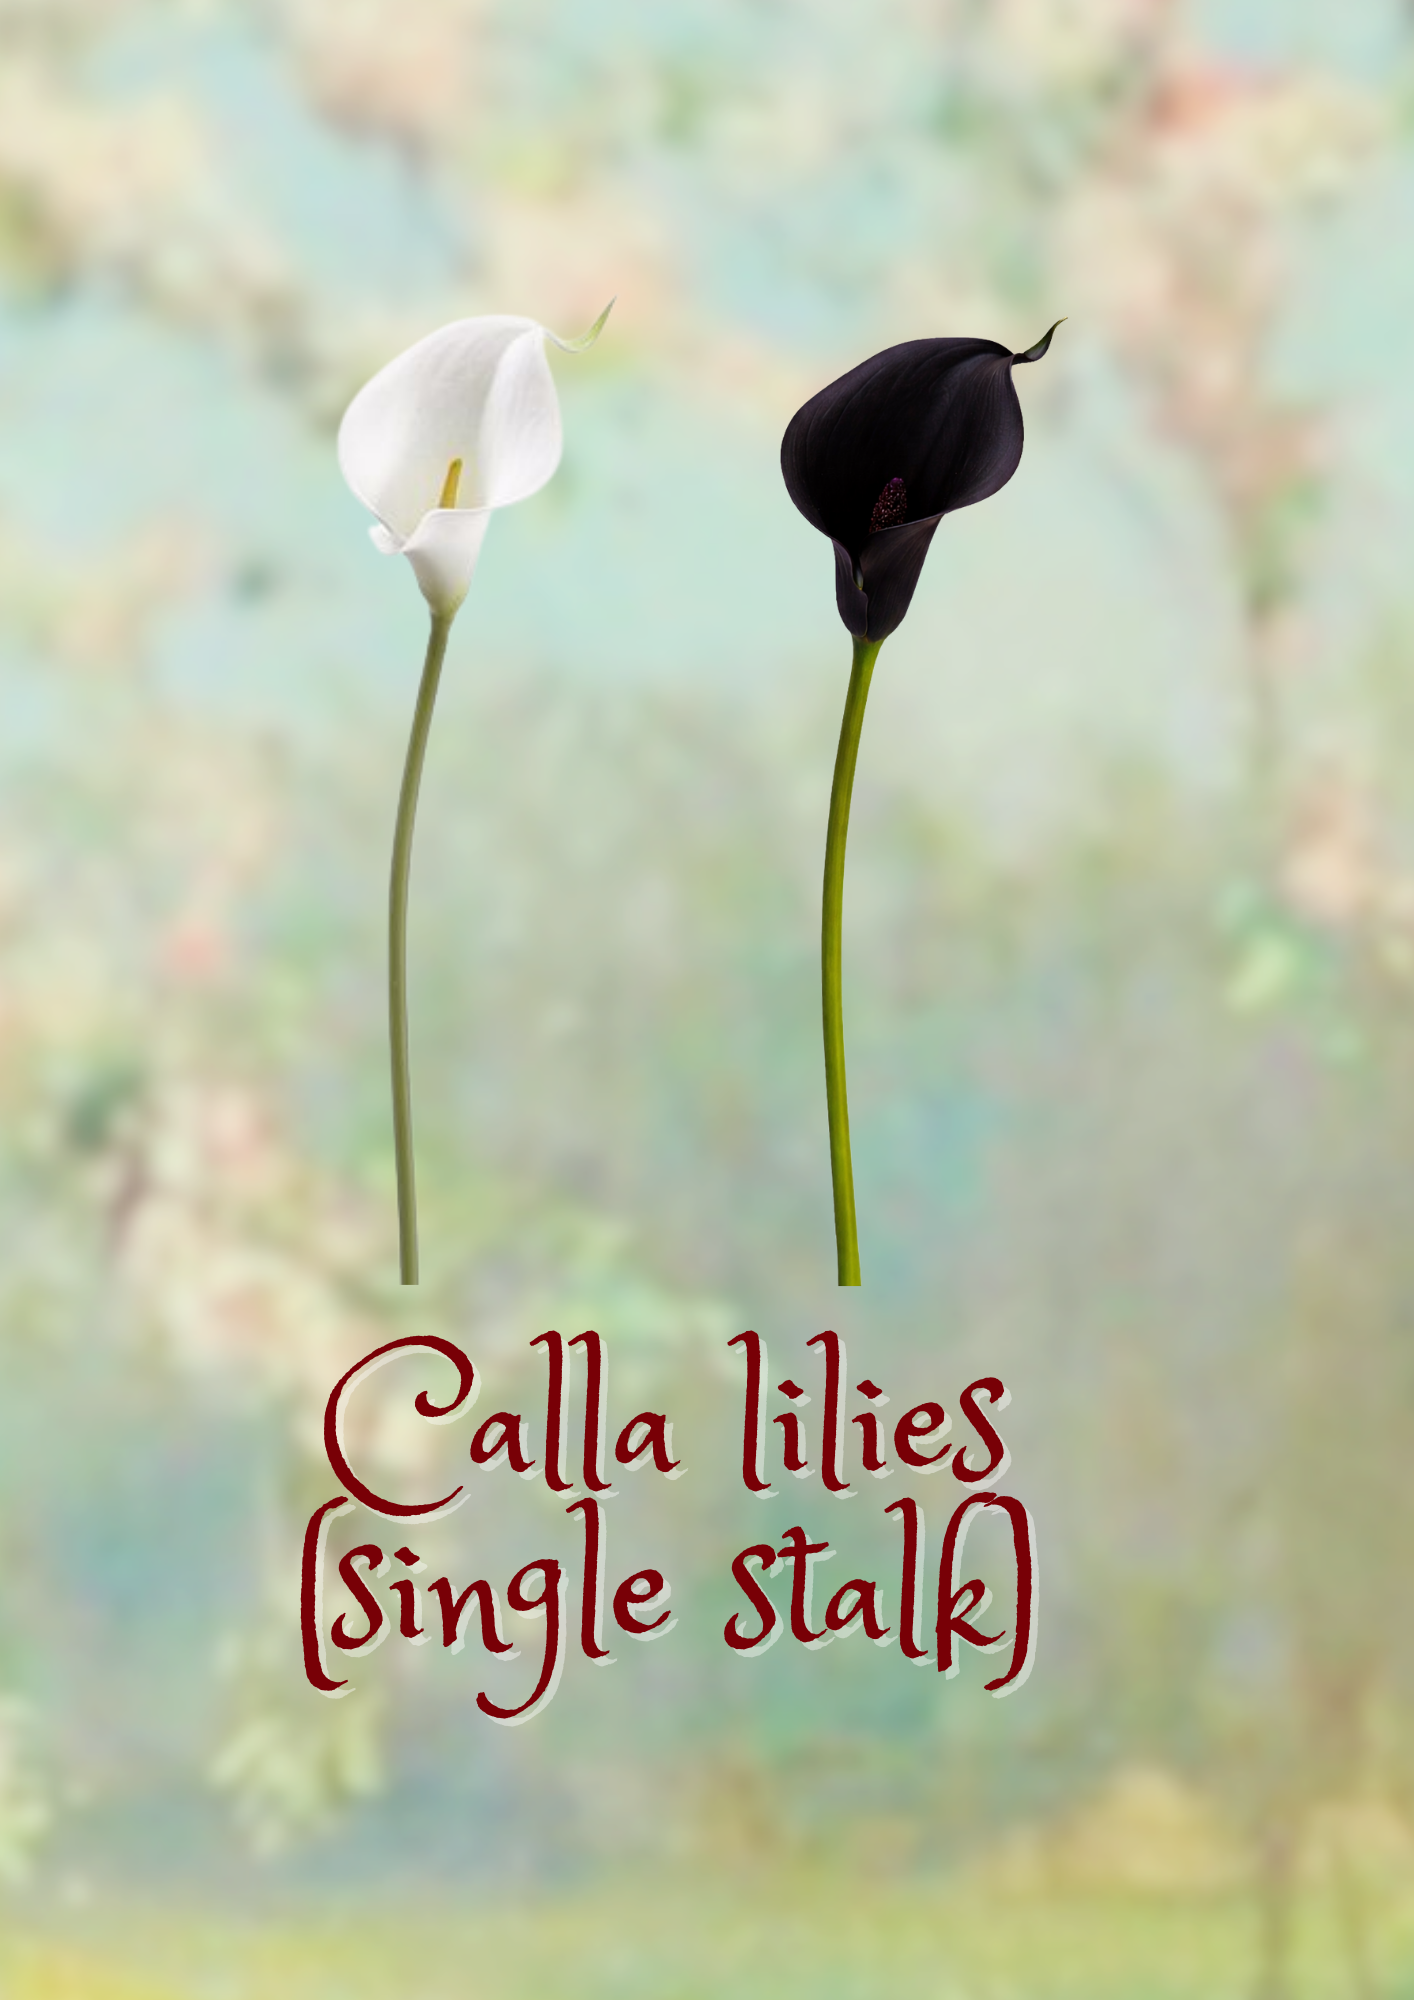
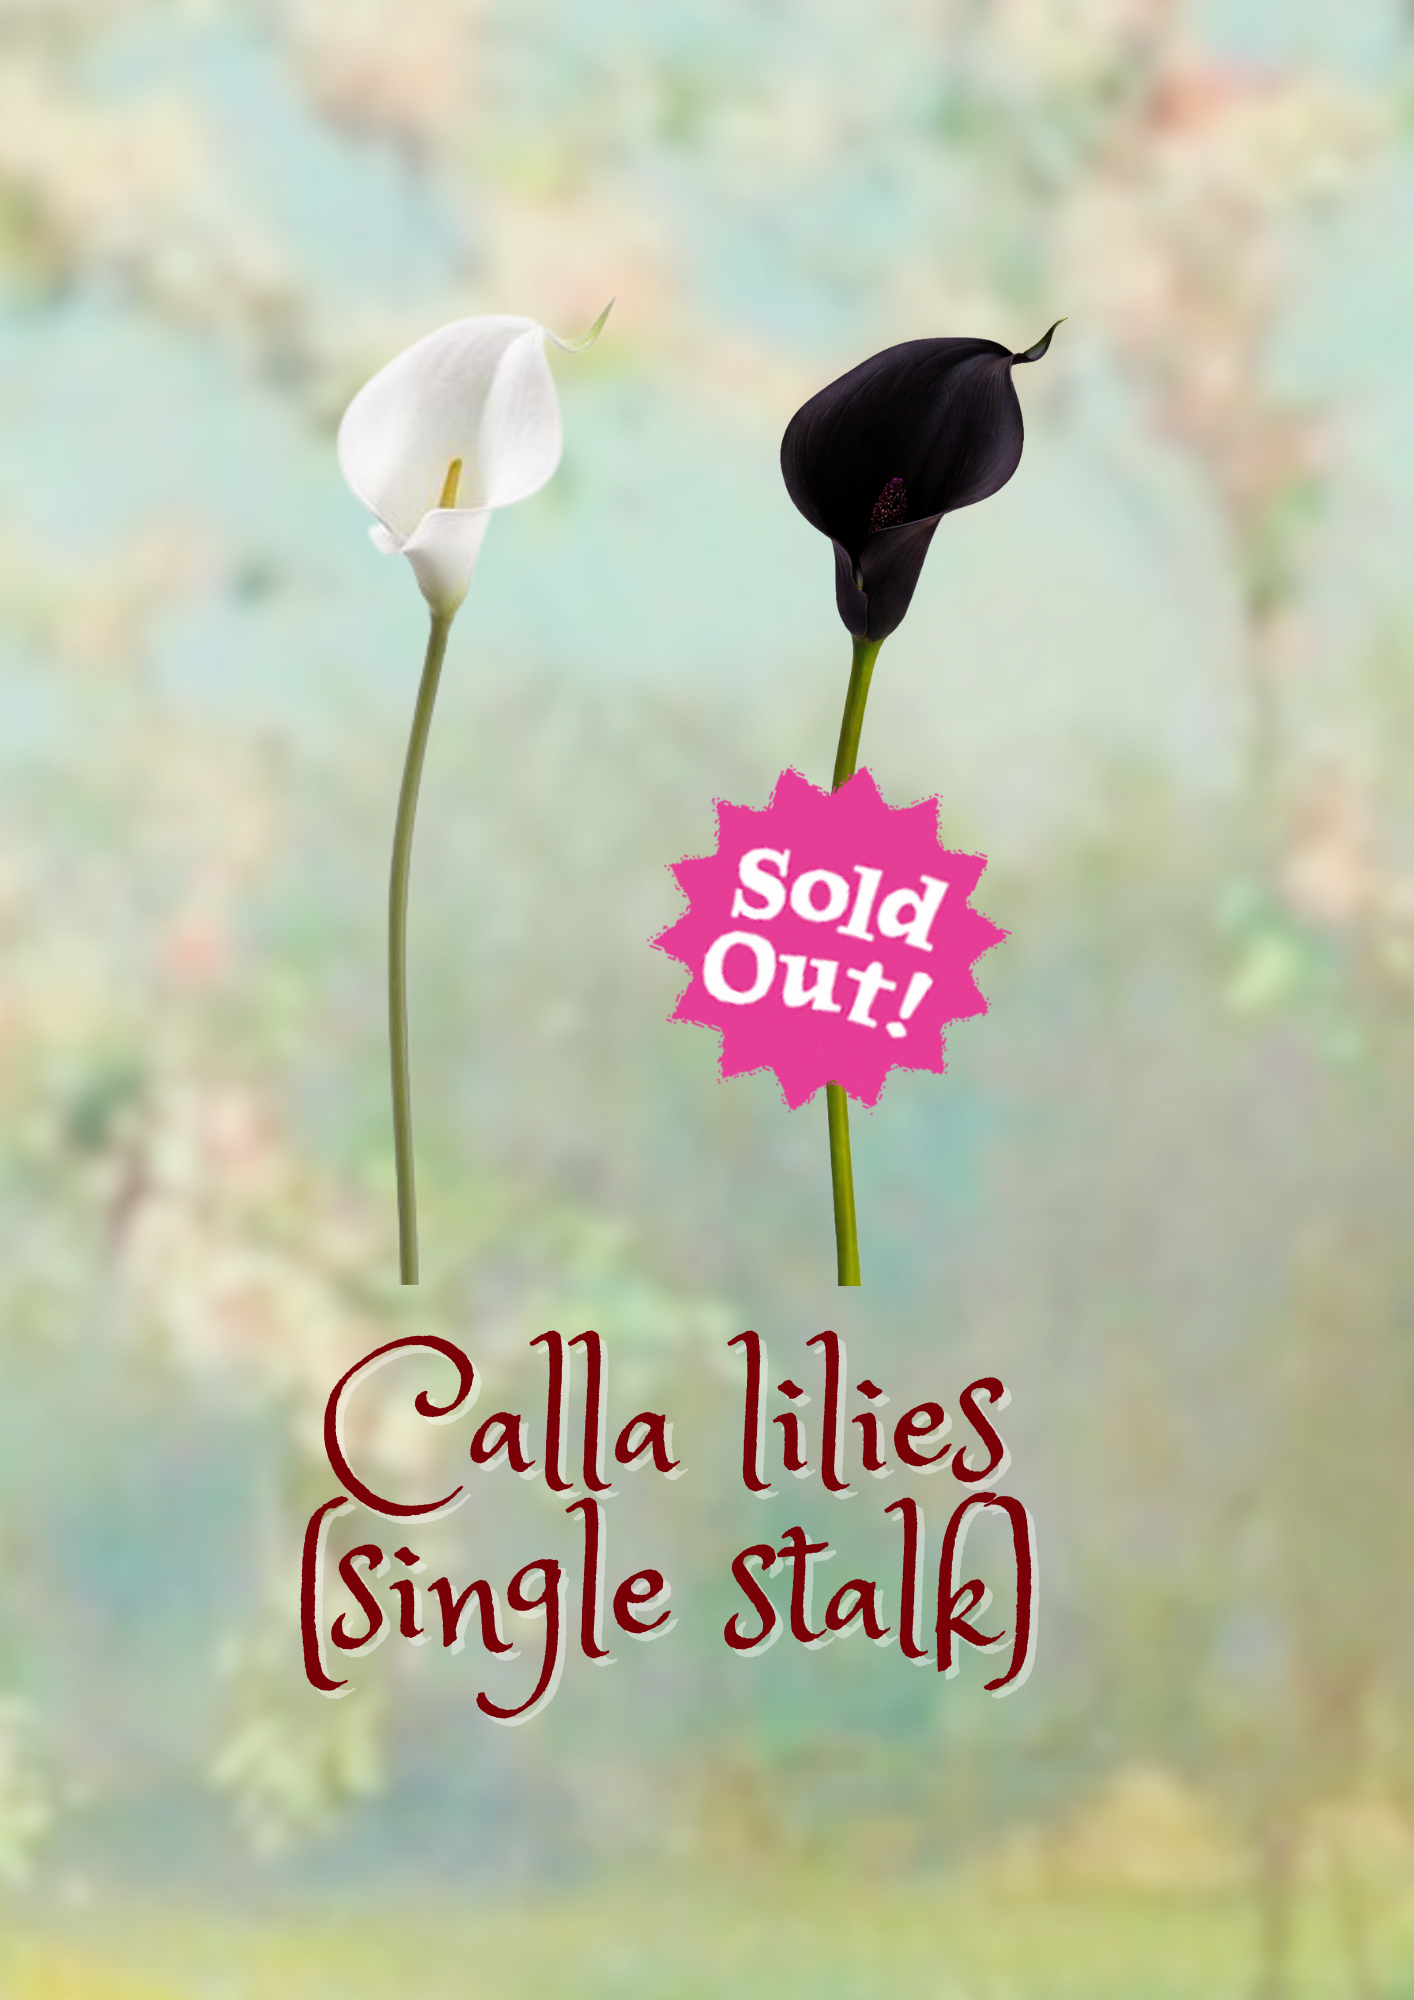
UPDATE: Removed black Calla Lily option

Changed region(s): [[0.4668, 0.372, 0.7157, 0.558]]

diff --git a/src/components/ProductCard.vue b/src/components/ProductCard.vue
@@ -21,7 +21,8 @@ const closeInstructionModal = () => {
 const flowerOptions = {
   'Rose': ['Pink', 'Red'],
   'Gerbera': ['White', 'Pink'],
-  'Calla Lily': ['Black', 'White']
+  // 'Calla Lily': ['Black', 'White'],
+  'Calla Lily': ['White']
 }
 
 // --- COMPUTED: DETECT BOUQUET SIZE ---
@@ -364,7 +365,7 @@ const addToCart = () => {
           <option v-if="product.name.includes('Gerbera')">White</option>
           <option v-if="product.name.includes('Gerbera')">Pink</option>
 
-          <option v-if="product.name.includes('Calla')">Black</option>
+          <!-- <option v-if="product.name.includes('Calla')">Black</option> -->
           <option v-if="product.name.includes('Calla')">White</option>
 
           <option v-if="product.name.includes('Baby')">White</option>
